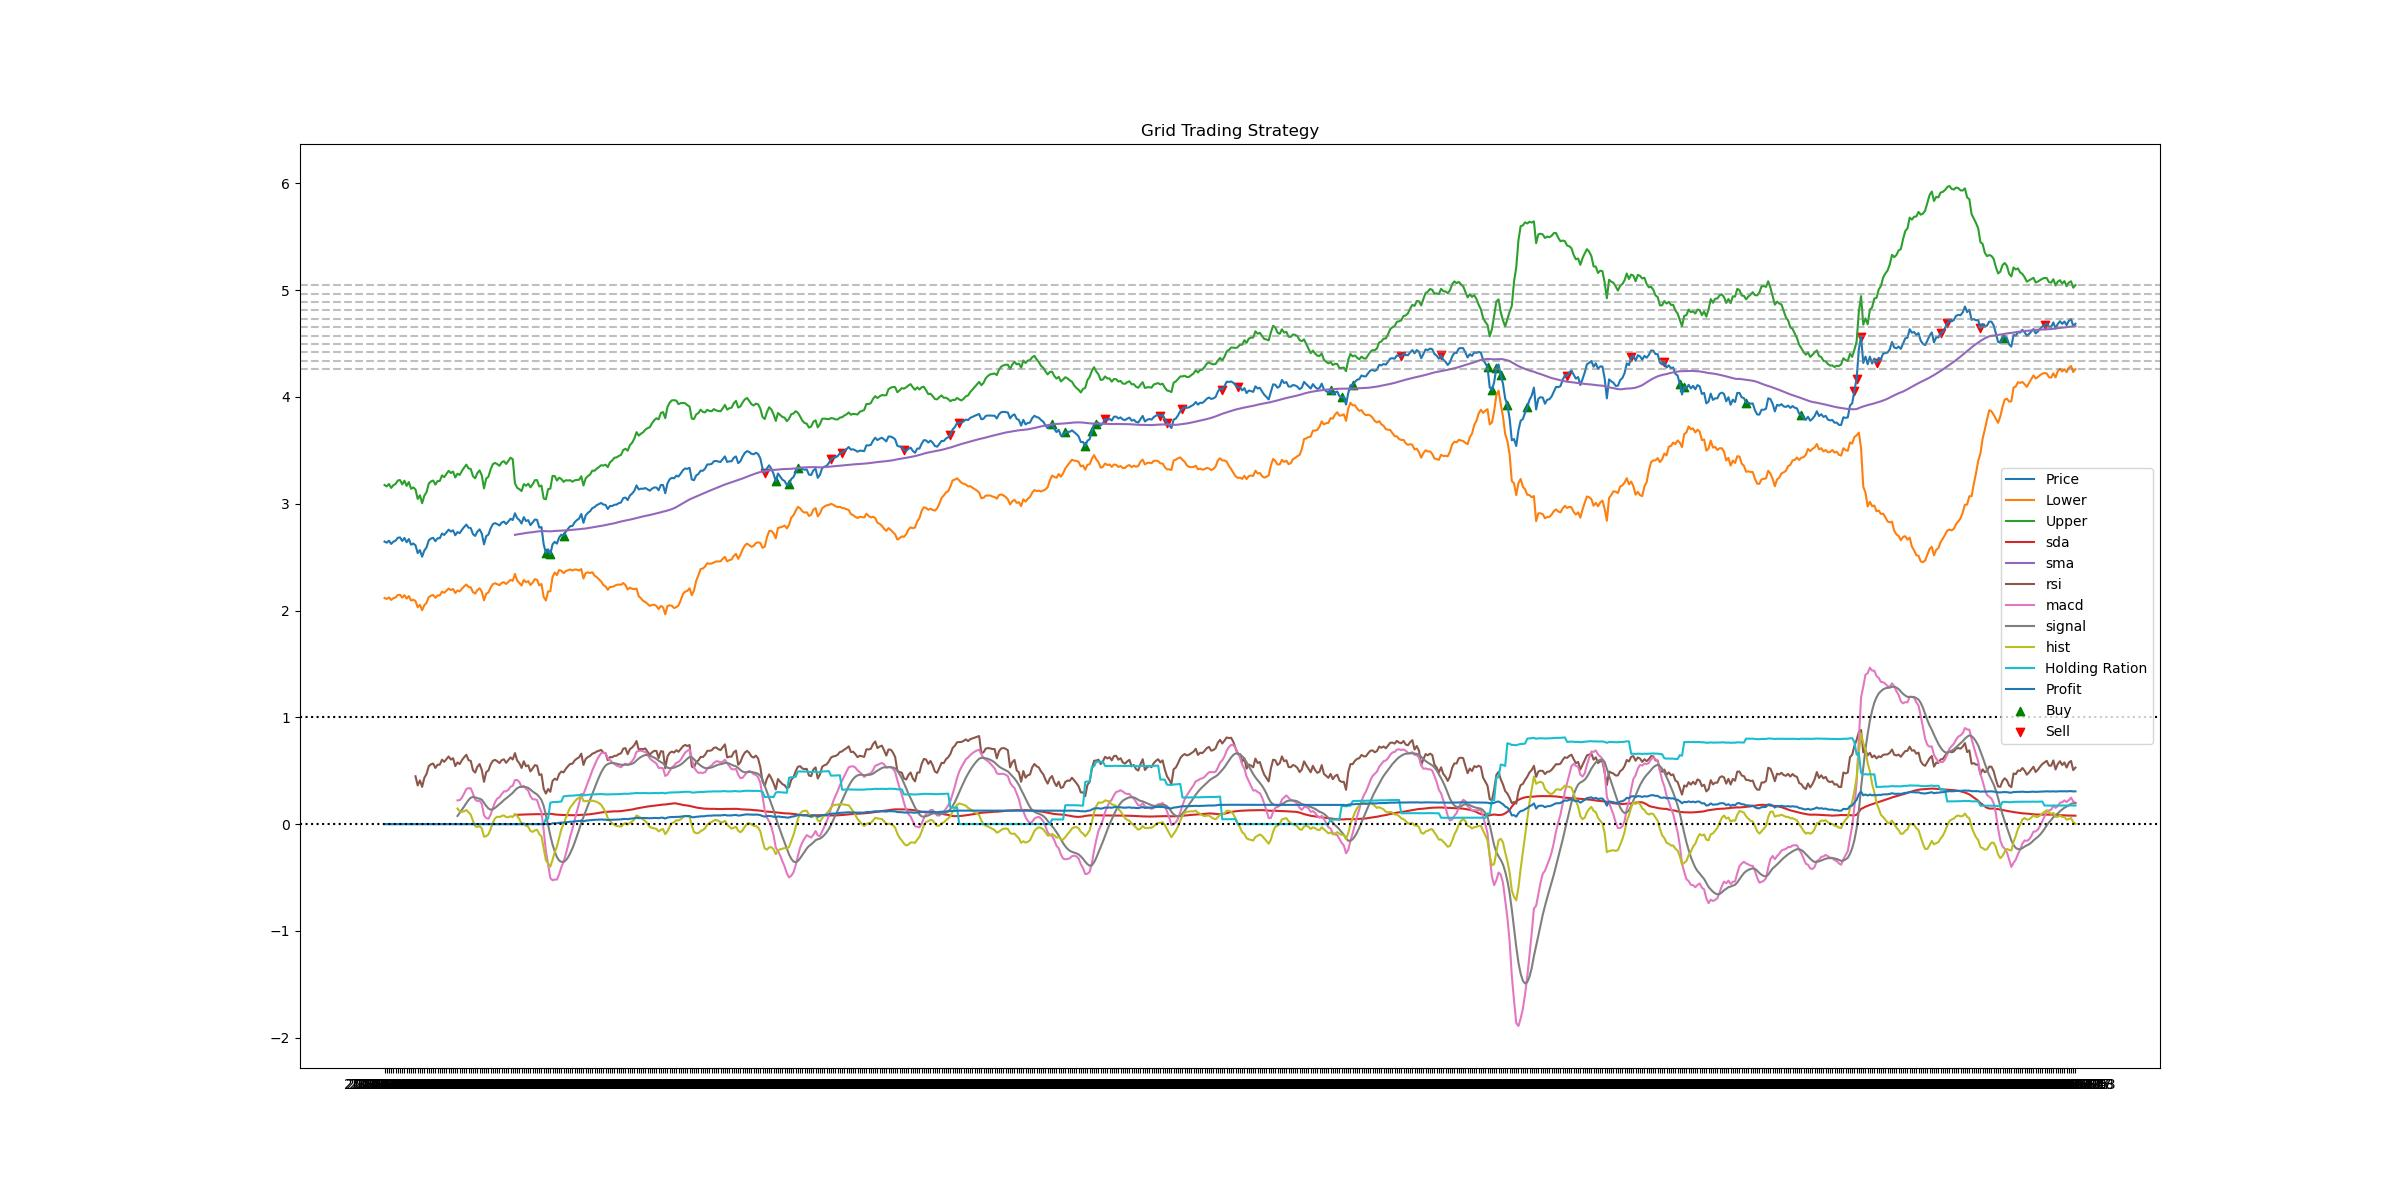
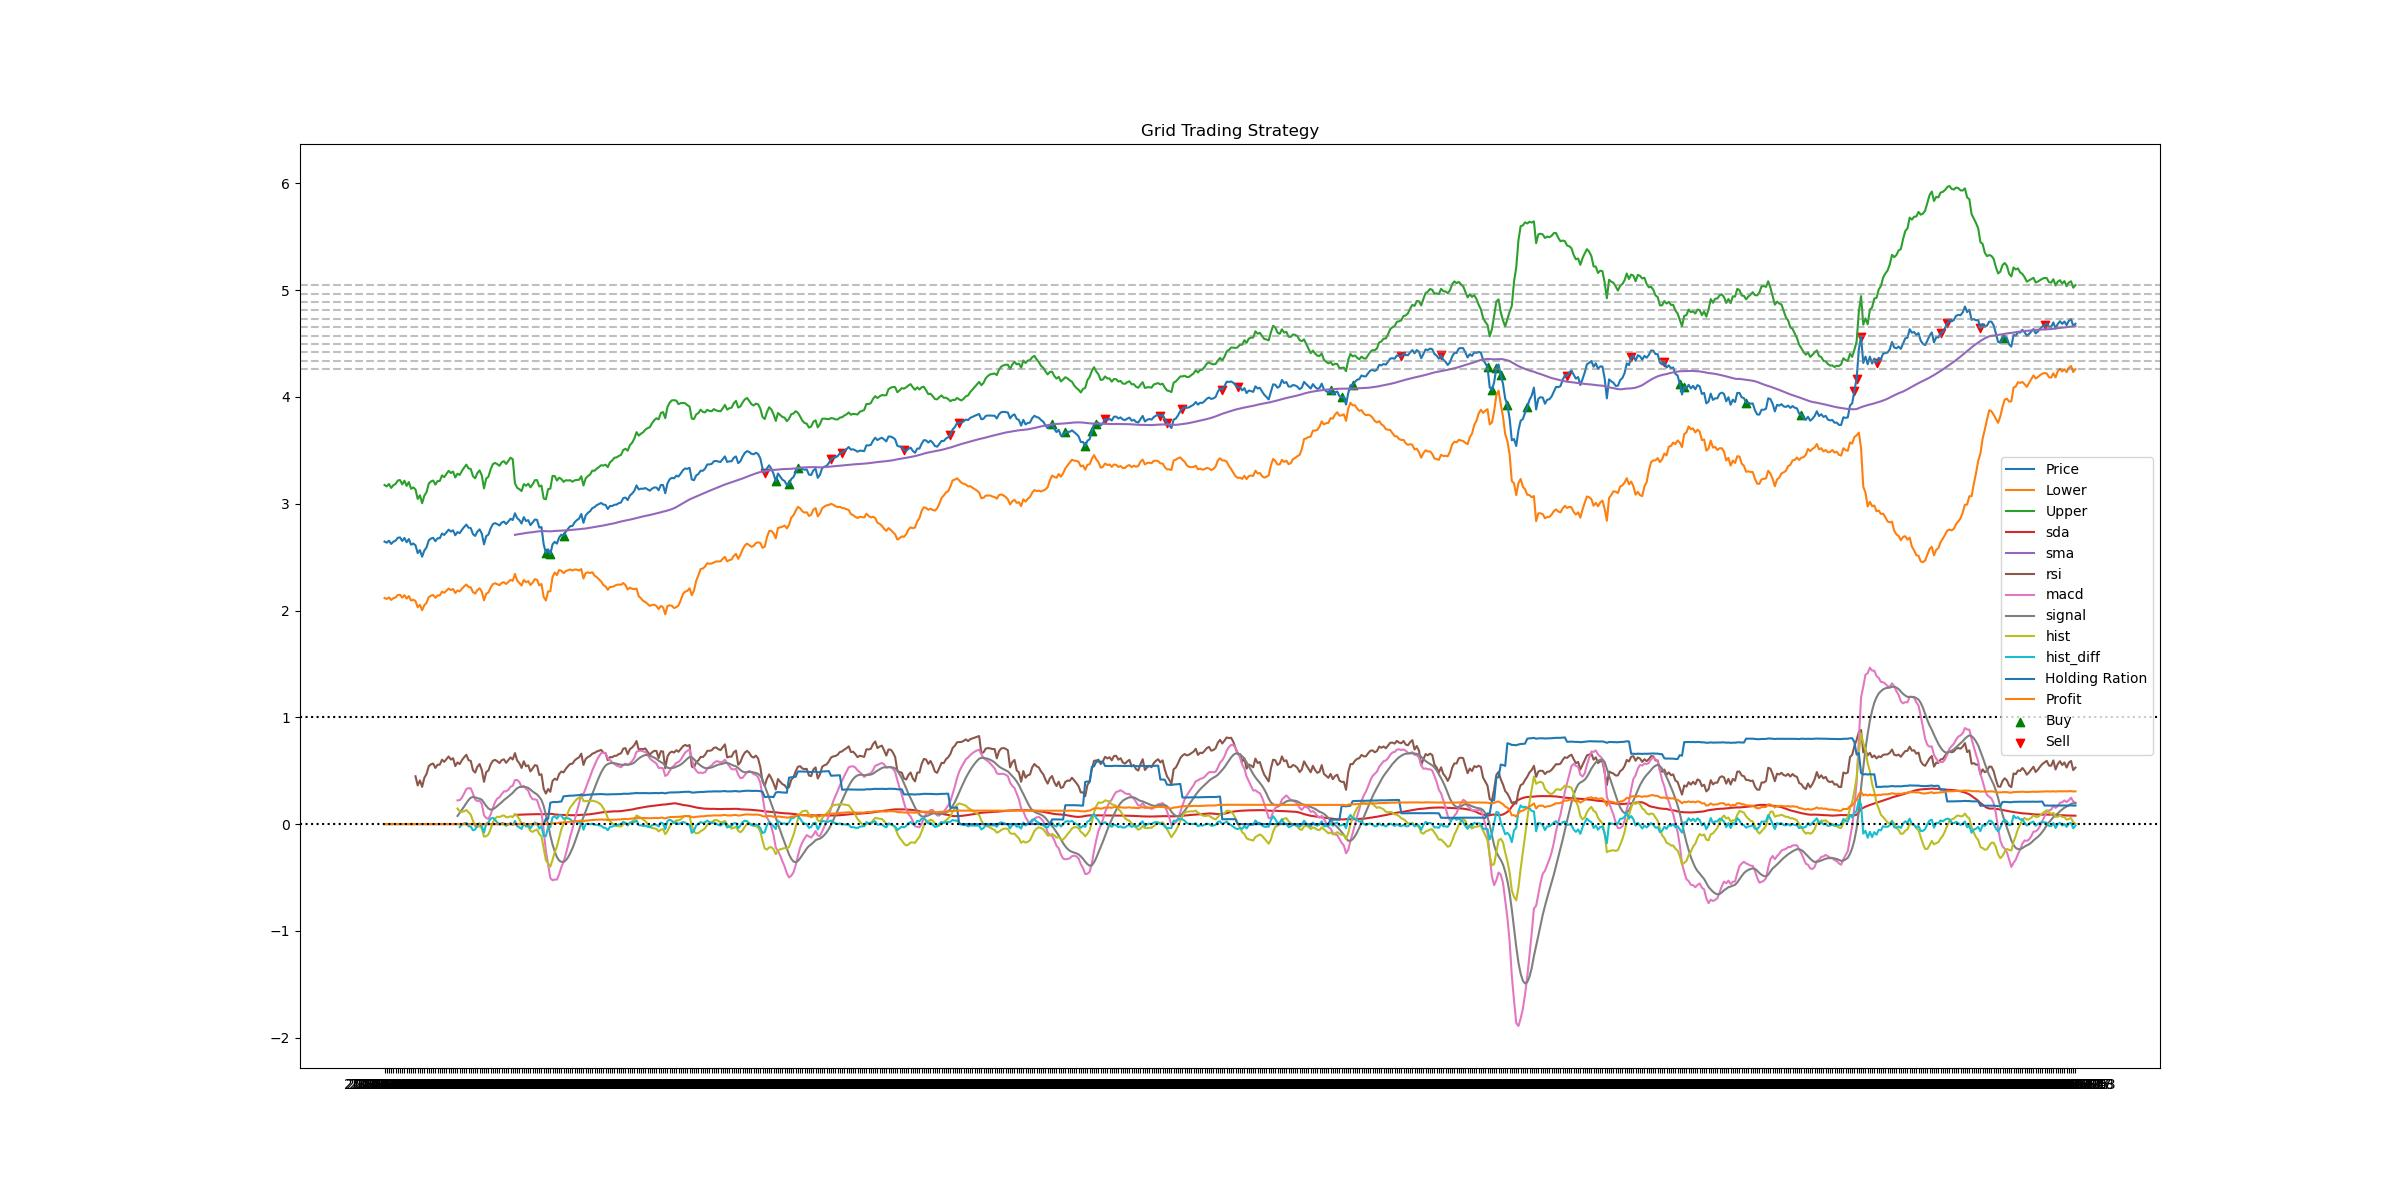
m

Changed region(s): [[0.1875, 0.6475, 0.875, 0.7092], [0.8125, 0.37, 0.9062, 0.6167]]

diff --git a/ayaa/strategy/grid_strategy.py b/ayaa/strategy/grid_strategy.py
@@ -188,6 +188,7 @@ class GridTradingStrategy:
         plt.plot(self.data['date'], self.ub['macd']*10, label='macd')
         plt.plot(self.data['date'], self.ub['signal']*10, label='signal')
         plt.plot(self.data['date'], self.ub['hist']*10, label='hist')
+        plt.plot(self.data['date'], self.ub['hist_diff']*10, label='hist_diff')
 
         plt.plot([i['date'] for i in self.holding_rations], [i['ration'] for i in self.holding_rations], label='Holding Ration')
         plt.plot([i['date'] for i in self.holding_rations], [i['profit'] for i in self.holding_rations], label='Profit')

diff --git a/ayaa/utils/perf.py b/ayaa/utils/perf.py
@@ -25,6 +25,7 @@ def calculate_bollinger_bands(data, window=20, num_std=2, price_col='close', fil
 
     df['rsi'] = talib.RSI(df[price_col], timeperiod=14) / 100
     df['macd'], df['signal'], df['hist'] = talib.MACD(df[price_col], fastperiod=12, slowperiod=26, signalperiod=9)
+    df['hist_diff'] = np.diff(df['hist'], prepend=df['hist'][0])
     # 计算标准差
     df['sda'] = df[price_col].rolling(window=window).std()
     rolling_std = df[price_col].rolling(window=window).std()
